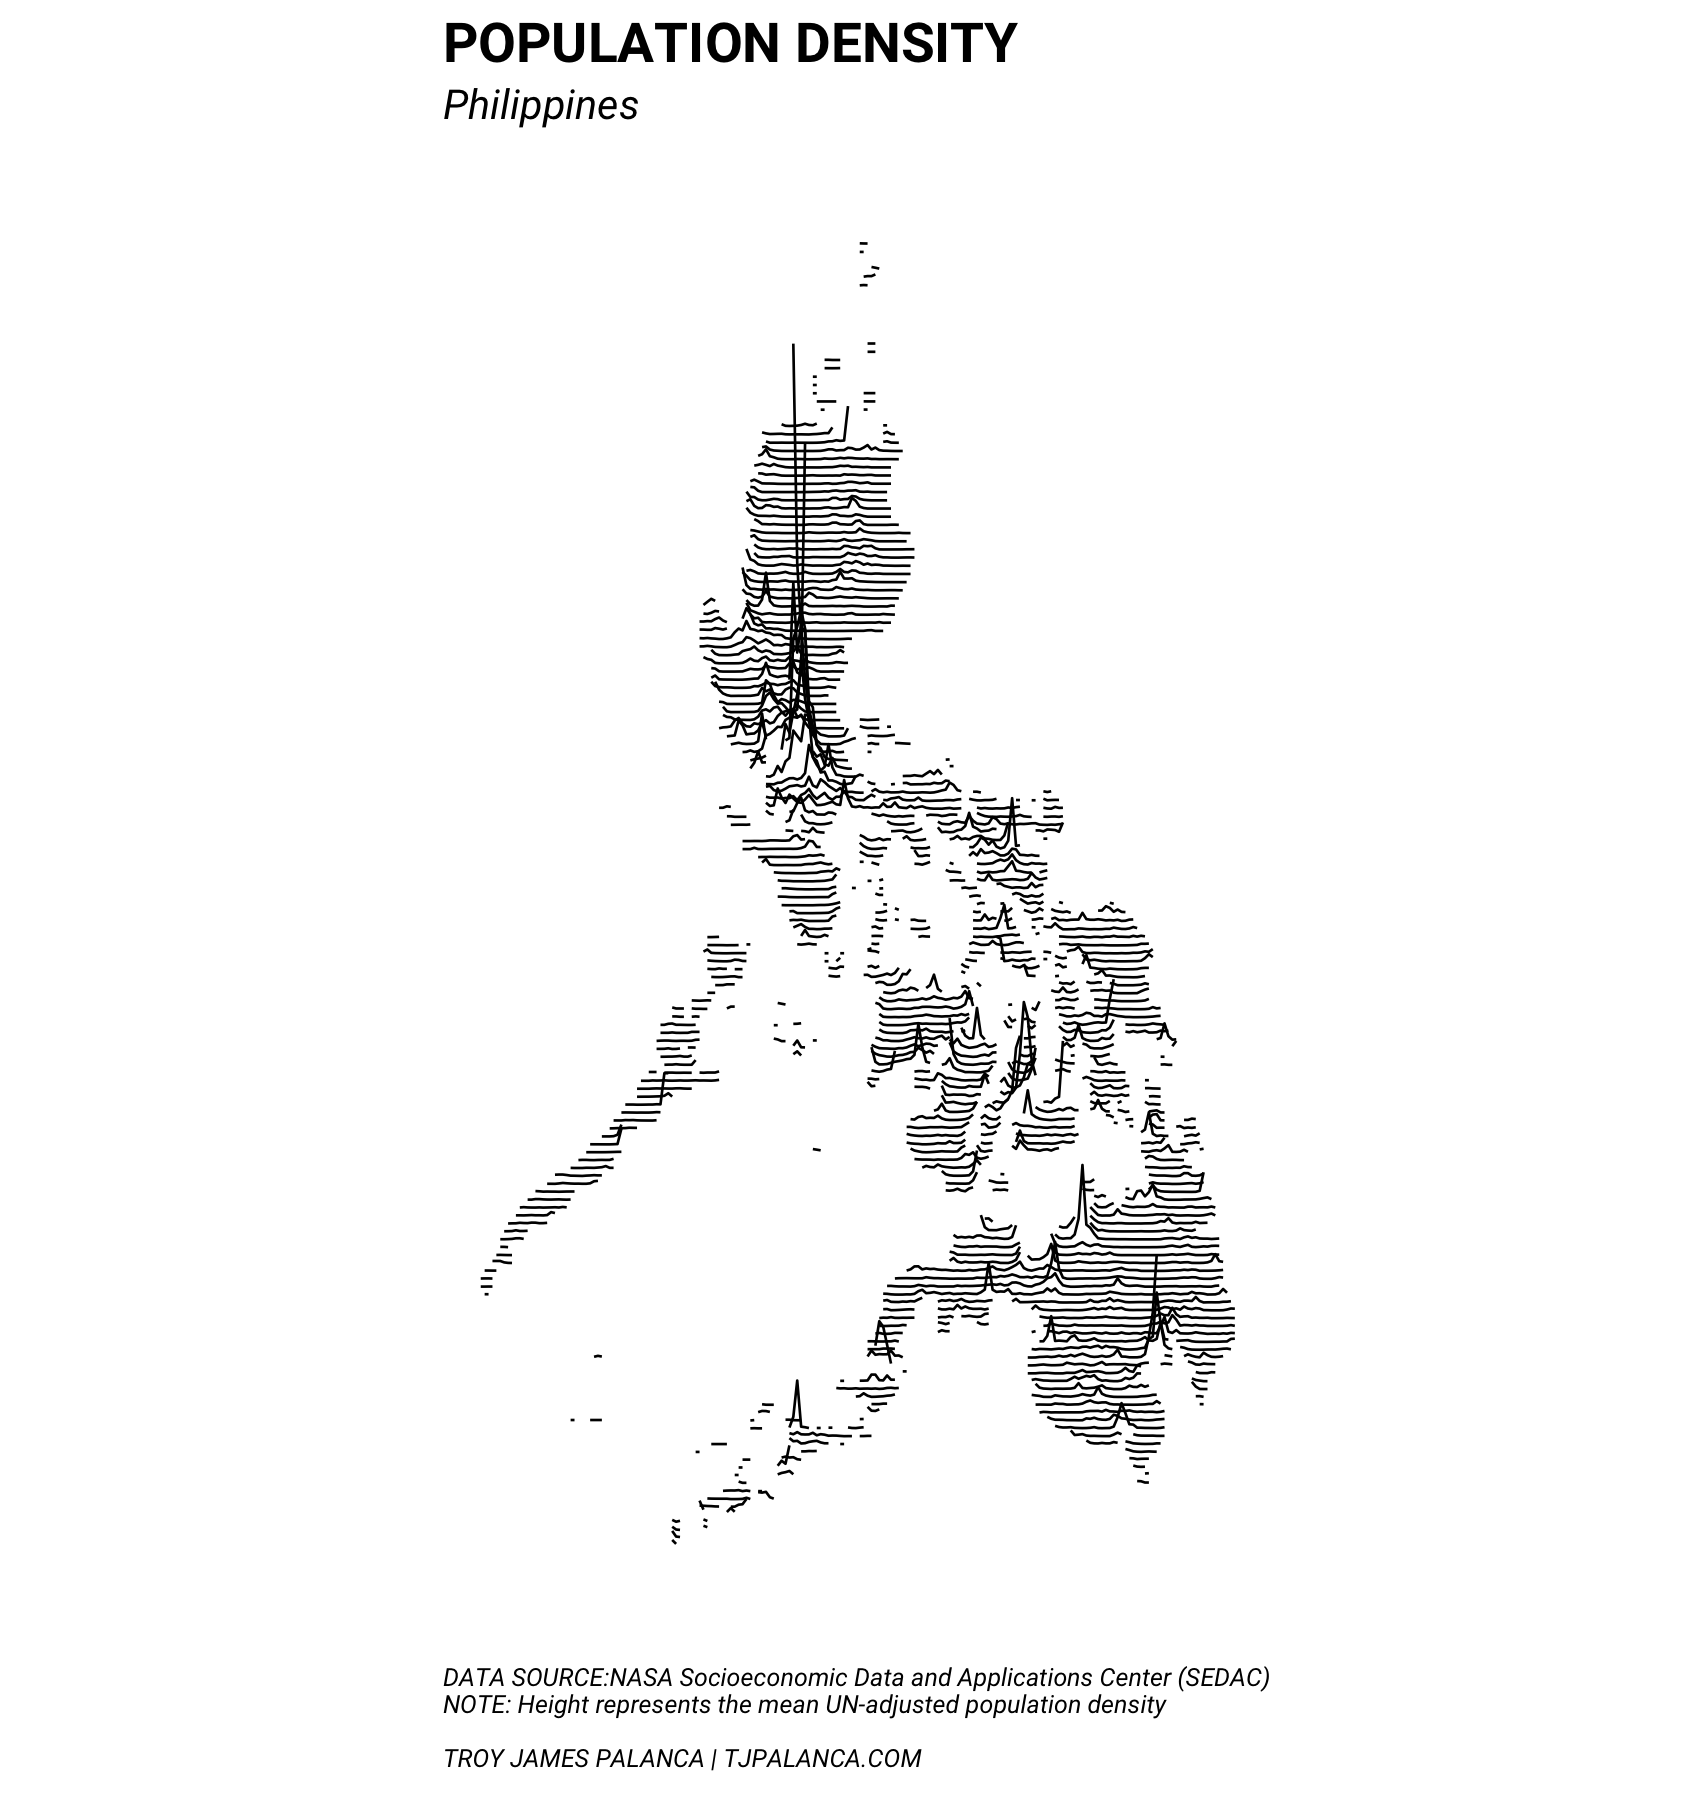
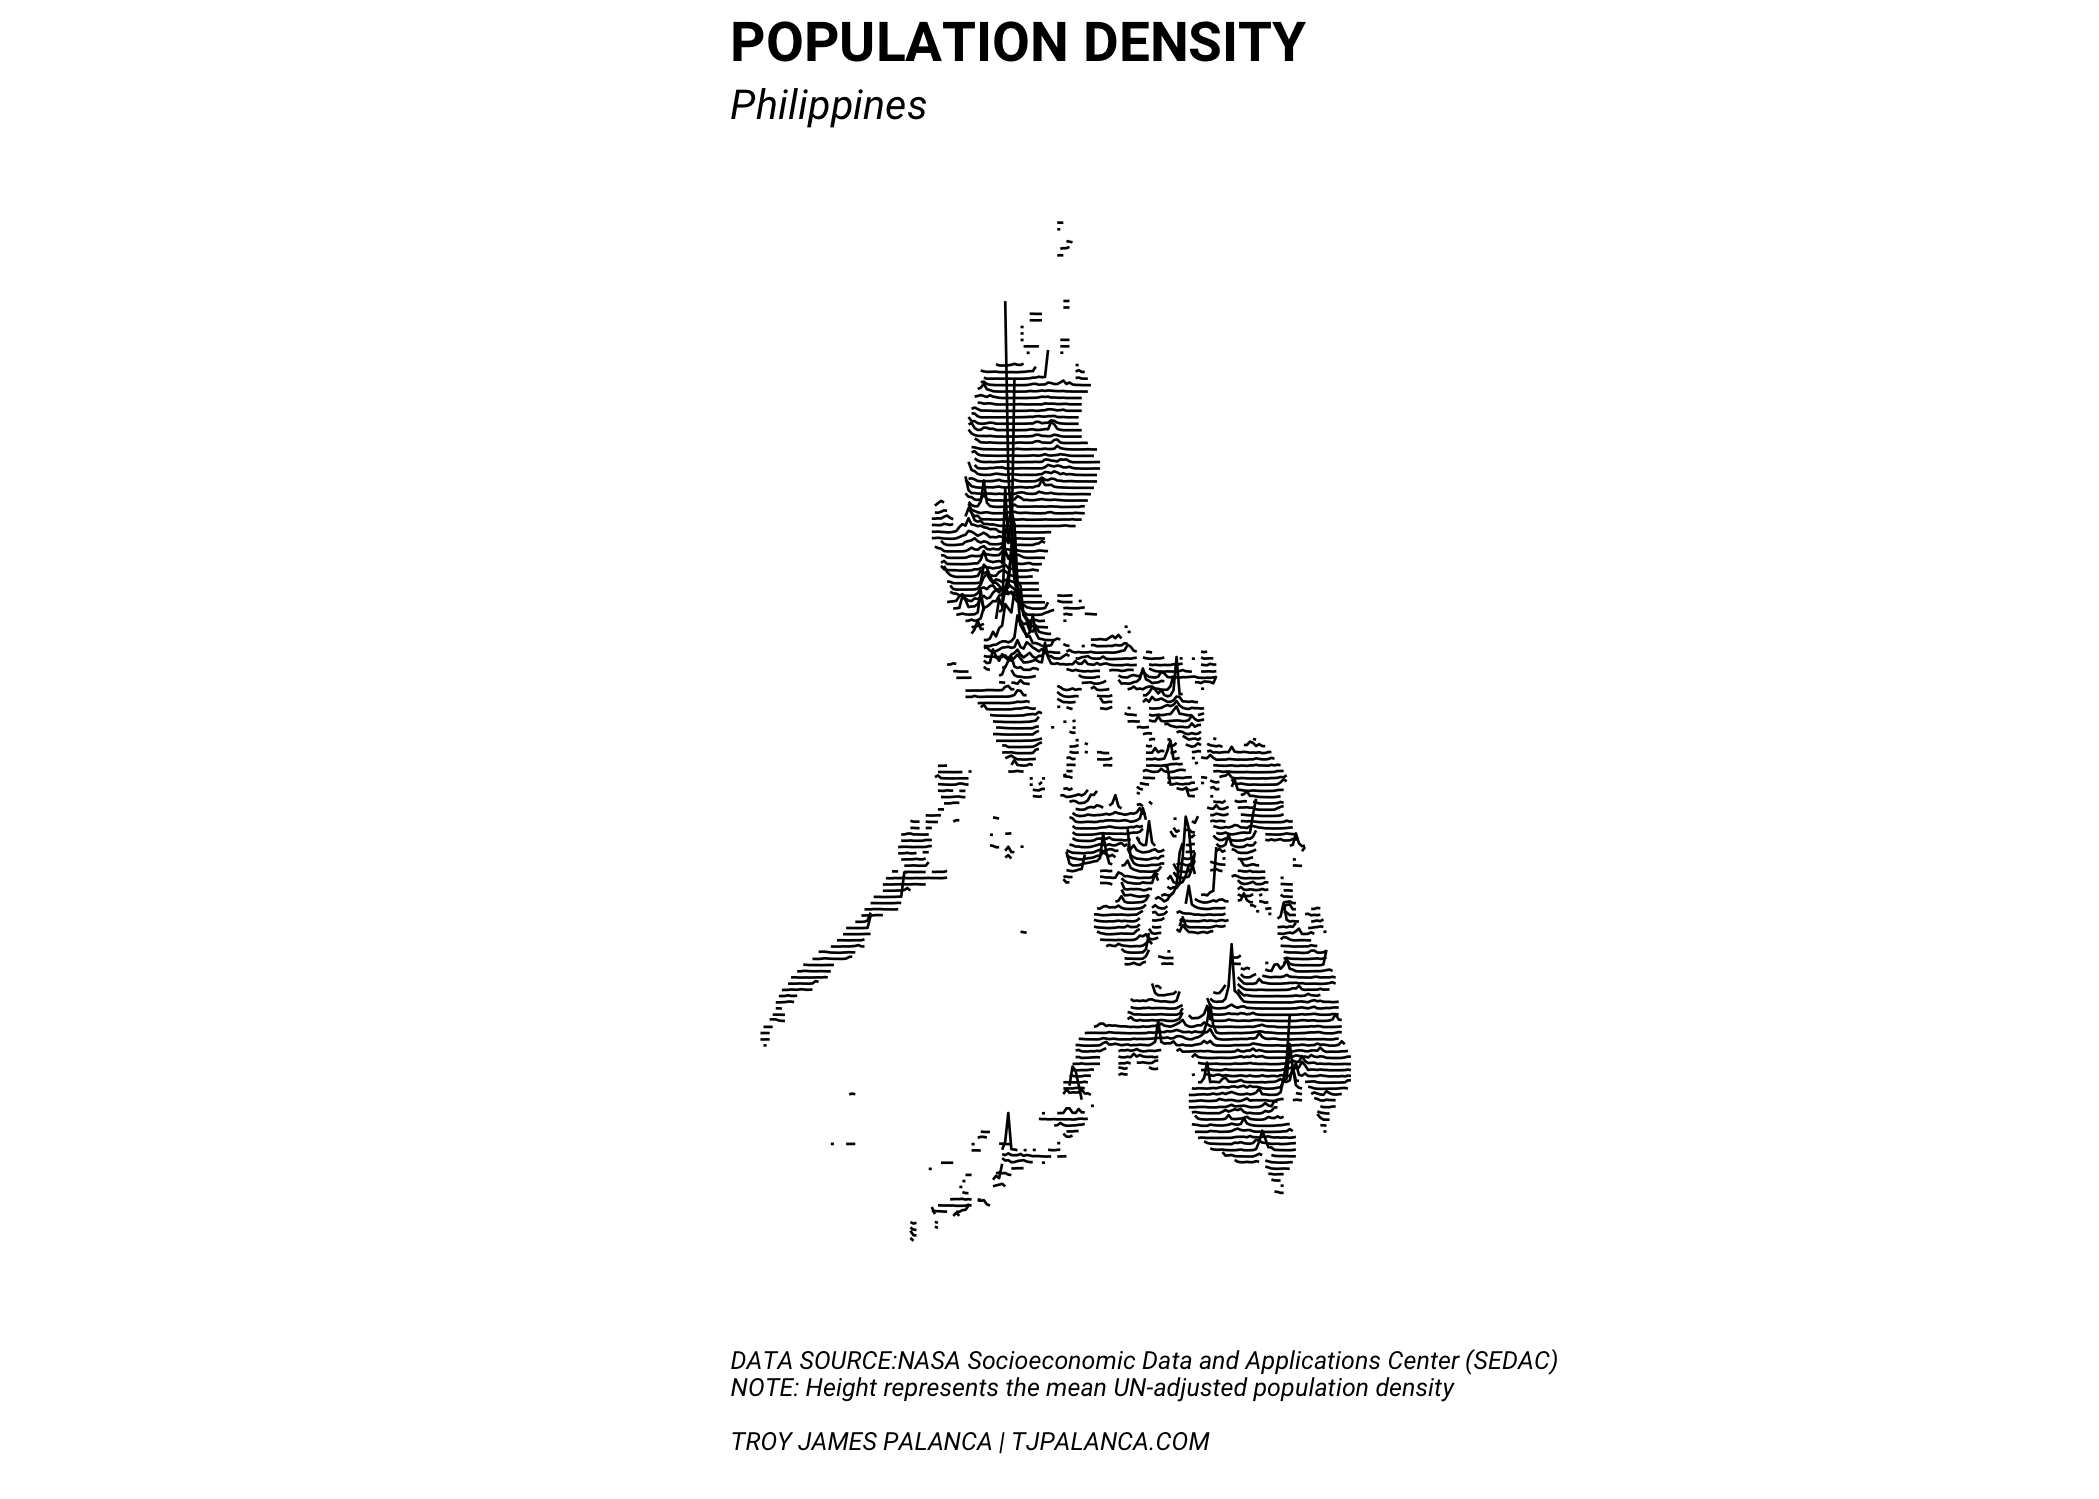
Minor fixes

diff --git a/src/20170501-mapping-population-densities.html b/src/20170501-mapping-population-densities.html
@@ -396,7 +396,7 @@ philippines_popd.spdf %&gt;%<span class="st"> </span>
 <h3>Philippines</h3>
 <div class="sourceCode"><pre class="sourceCode r"><code class="sourceCode r">philippines_popd.df %&gt;%<span class="st"> </span>
 <span class="st">  </span><span class="kw">plotPopulationDensityLines</span>(
-    <span class="dt">lat_res  =</span> <span class="fl">0.06</span>,
+    <span class="dt">lat_res  =</span> <span class="fl">0.1</span>,
     <span class="dt">lng_res  =</span> <span class="fl">0.05</span>,
     <span class="dt">height   =</span> <span class="dv">50</span>,
     <span class="dt">lwd      =</span> <span class="fl">0.3</span>,
@@ -412,9 +412,8 @@ philippines_popd.spdf %&gt;%<span class="st"> </span>
 <div class="sourceCode"><pre class="sourceCode r"><code class="sourceCode r">philippines.gg</code></pre></div>
 <p><img src="20170501-mapping-population-densities_files/figure-html/unnamed-chunk-2-1.png" width="672" /></p>
 </div>
-</div>
-<div id="greater-manila-area" class="section level2">
-<h2>Greater Manila Area</h2>
+<div id="greater-manila-area" class="section level3">
+<h3>Greater Manila Area</h3>
 <div class="sourceCode"><pre class="sourceCode r"><code class="sourceCode r">philippines_popd.df %&gt;%<span class="st"> </span>
 <span class="st">  </span><span class="kw">filter</span>(NAME_1 %in%<span class="st"> </span><span class="kw">c</span>(
     <span class="st">&quot;Metropolitan Manila&quot;</span>, 
@@ -437,8 +436,8 @@ philippines_popd.spdf %&gt;%<span class="st"> </span>
 <div class="sourceCode"><pre class="sourceCode r"><code class="sourceCode r">gma.gg</code></pre></div>
 <p><img src="20170501-mapping-population-densities_files/figure-html/unnamed-chunk-3-1.png" width="672" /></p>
 </div>
-<div id="cebu" class="section level2">
-<h2>Cebu</h2>
+<div id="cebu" class="section level3">
+<h3>Cebu</h3>
 <div class="sourceCode"><pre class="sourceCode r"><code class="sourceCode r">philippines_popd.df %&gt;%<span class="st"> </span>
 <span class="st">  </span><span class="kw">filter</span>(NAME_1 ==<span class="st"> &quot;Cebu&quot;</span>) %&gt;%<span class="st"> </span>
 <span class="st">  </span><span class="kw">plotPopulationDensityLines</span>(
@@ -458,8 +457,8 @@ philippines_popd.spdf %&gt;%<span class="st"> </span>
 <div class="sourceCode"><pre class="sourceCode r"><code class="sourceCode r">cebu.gg</code></pre></div>
 <p><img src="20170501-mapping-population-densities_files/figure-html/unnamed-chunk-4-1.png" width="672" /></p>
 </div>
-<div id="davao" class="section level2">
-<h2>Davao</h2>
+<div id="davao" class="section level3">
+<h3>Davao</h3>
 <div class="sourceCode"><pre class="sourceCode r"><code class="sourceCode r">philippines_popd.df %&gt;%<span class="st"> </span>
 <span class="st">  </span><span class="kw">filter</span>(NAME_1 ==<span class="st"> &quot;Davao del Sur&quot;</span>) %&gt;%<span class="st"> </span>
 <span class="st">  </span><span class="kw">plotPopulationDensityLines</span>(
@@ -479,8 +478,8 @@ philippines_popd.spdf %&gt;%<span class="st"> </span>
 <div class="sourceCode"><pre class="sourceCode r"><code class="sourceCode r">davao.gg</code></pre></div>
 <p><img src="20170501-mapping-population-densities_files/figure-html/unnamed-chunk-5-1.png" width="672" /></p>
 </div>
-<div id="bicol" class="section level2">
-<h2>Bicol</h2>
+<div id="bicol" class="section level3">
+<h3>Bicol</h3>
 <div class="sourceCode"><pre class="sourceCode r"><code class="sourceCode r">philippines_popd.df %&gt;%<span class="st"> </span>
 <span class="st">  </span><span class="kw">filter</span>(NAME_1 %in%<span class="st"> </span><span class="kw">c</span>(
     <span class="st">&quot;Albay&quot;</span>, <span class="st">&quot;Camarines Norte&quot;</span>, <span class="st">&quot;Camarines Sur&quot;</span>,
@@ -502,6 +501,7 @@ philippines_popd.spdf %&gt;%<span class="st"> </span>
 <pre><code>## Saving 7 x 5 in image</code></pre>
 <div class="sourceCode"><pre class="sourceCode r"><code class="sourceCode r">bicol.gg</code></pre></div>
 <p><img src="20170501-mapping-population-densities_files/figure-html/unnamed-chunk-6-1.png" width="672" /></p>
+</div>
 </div>
 
 
